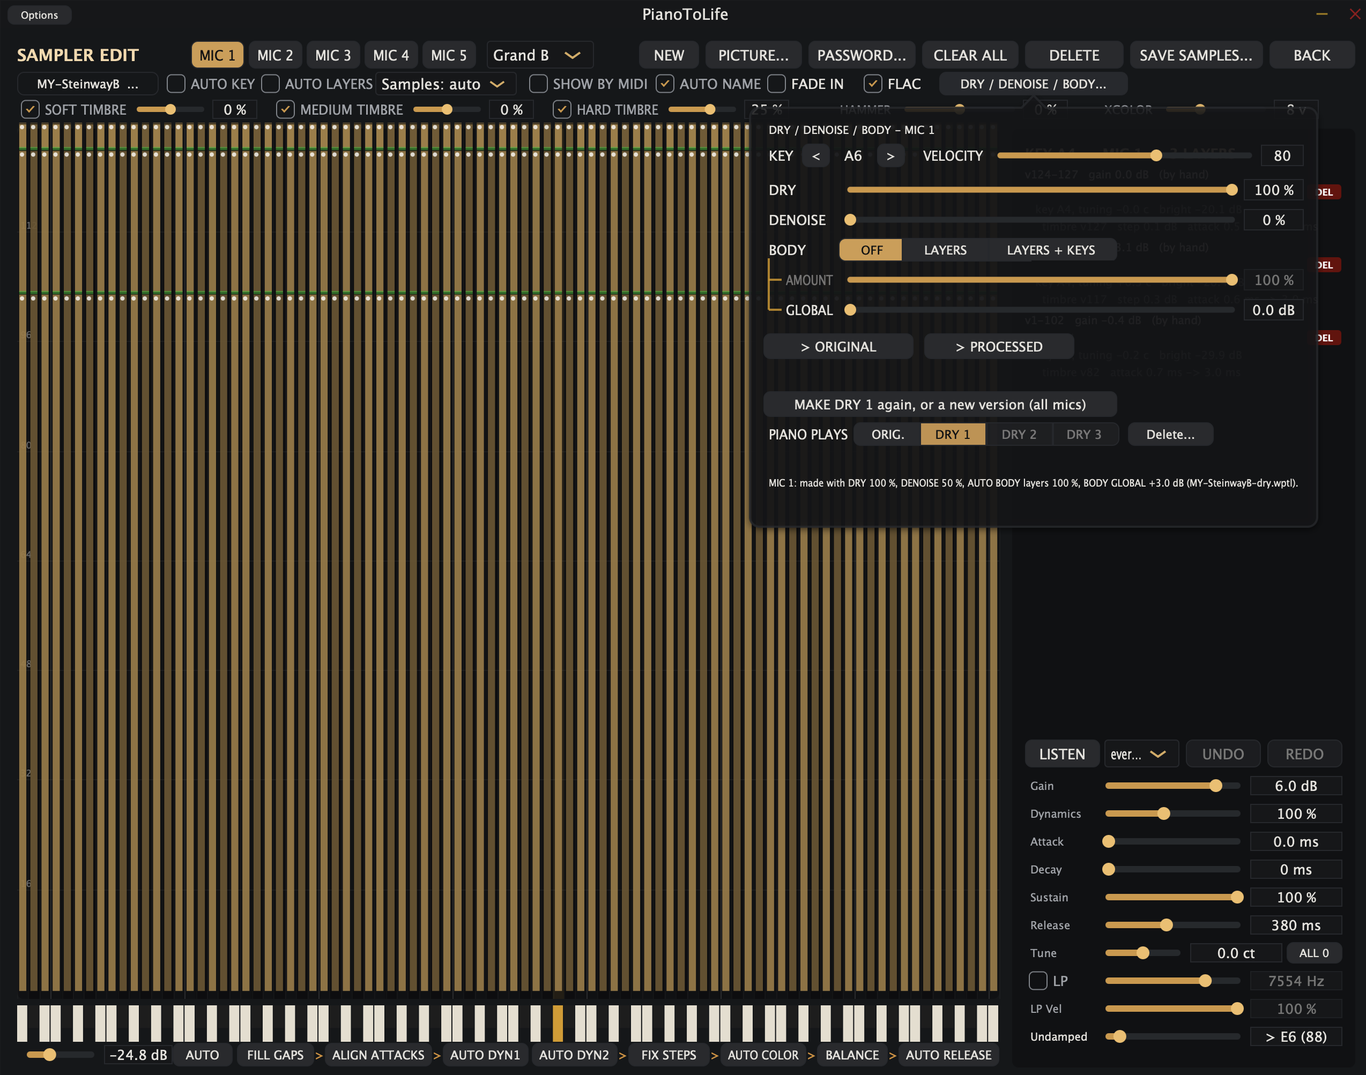
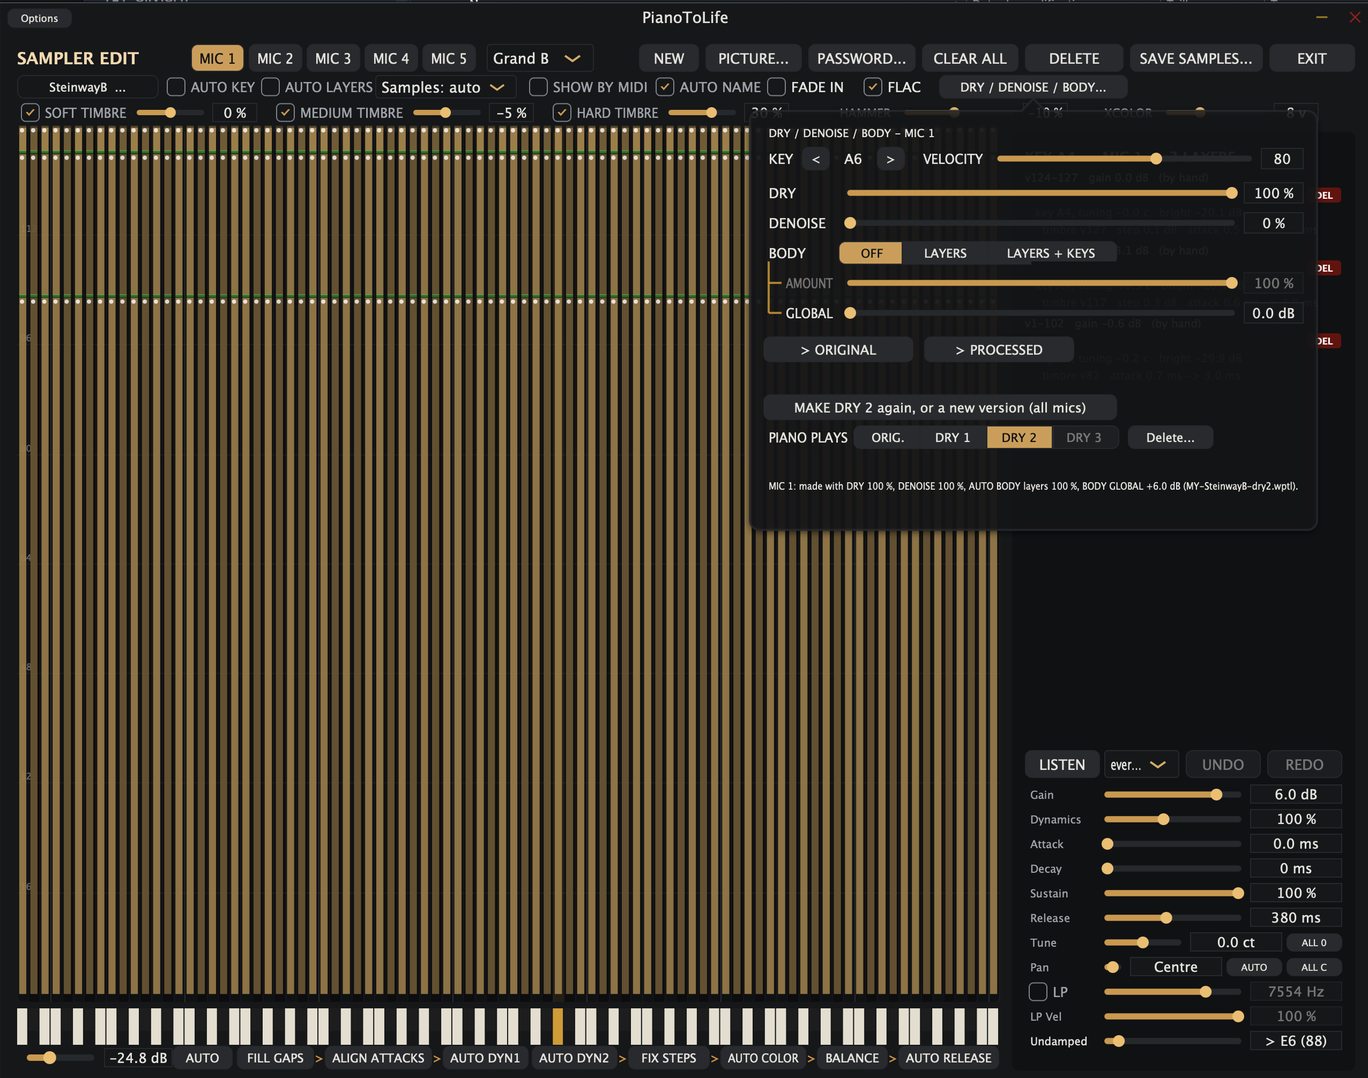
Add files via upload

diff --git a/MANUEL.md b/MANUEL.md
@@ -1,6 +1,6 @@
 # PianoToLife — Manuel d'utilisation
 
-*Version 10.9.8 · [English version](USER_MANUAL.md) · Mapping du sampler : [Manuel du sampler](MANUEL_SAMPLER.md)*
+*Version 10.9.9 · [English version](USER_MANUAL.md) · Mapping du sampler : [Manuel du sampler](MANUEL_SAMPLER.md)*
 
 PianoToLife fait **se comporter un piano virtuel comme un vrai** : les cordes qui résonnent par sympathie, la pédale
 de sustain et la demi-pédale, les étouffoirs, le relâchement, l'una corda, les bruits de la mécanique. Ce manuel
@@ -379,7 +379,7 @@ signaler un clavier qui se comporte à sa façon.
 | **Key Noise** (GRAND / UPRIGHT) | La mécanique en bois des touches : marteau qui retombe, touche qui arrive en butée, répétition |
 | **Pedal Noise** | Chocs de bois, feutres sur les cordes et cordes graves libérées, selon la course et la vitesse de la pédale |
 | **BODY** | La taille perçue du piano (à gauche de SOFT) : la fondamentale de chaque note renforcée ou atténuée, en HOST et en SAMPLER. Ce n'est pas un égaliseur : une petite cloche suit **chaque note qui sonne**, sur sa propre fondamentale (touches et pédale suivies). Pourquoi ça aide : sur un vrai piano, la fondamentale est rayonnée par toute la table d'harmonie et se forme avec la distance ; des micros proches captent surtout les partiels aigus et le marteau, et un piano enregistré sonne souvent brillant mais un peu creux. BODY lui rend cette présence, note par note ; et dans un mix le piano se détache sans empâter le grave, puisque seules les notes jouées sont renforcées (un égaliseur remonterait toute la bande). En mode SAMPLER, **AUTO BODY** (10.9.3, EDIT > DRY / DENOISE / BODY) va plus loin : il rend cohérentes les fondamentales des échantillons, couche par couche et touche par touche, écrites dans le -dry ([Manuel du sampler](MANUEL_SAMPLER.md)) |
-| **Recorded Room** (appelée Ambience avant la 10.9.3) | Juste sous SYMPATHETIC RESONANCE. **La salle enregistrée dans vos échantillons**, détectée par AUTO CAL et simulée pour tout ce que PianoToLife ajoute (résonance, relâchement, bruits), pour qu'il se fonde dans le piano — jamais autour du son de votre piano, qui la contient déjà. **Ce n'est pas une reverb** : pour placer tout l'instrument dans une salle, utilisez la **REVERB** (ALGO ou IR) ; un piano rendu sec (DRY) n'a plus de salle enregistrée (Small). **Room** : Small, Medium, Default, Hall ou **Auto** (10.8.0, voir plus bas). Le curseur va de −6 à +6 dB autour de Default (10.8.0) |
+| **Recorded Room** (appelée Ambience avant la 10.9.3) | Juste sous SYMPATHETIC RESONANCE. **La salle enregistrée dans vos échantillons**, détectée par AUTO CAL et simulée pour tout ce que PianoToLife ajoute (résonance, relâchement, bruits), pour qu'il se fonde dans le piano — jamais autour du son de votre piano, qui la contient déjà. **Ce n'est pas une reverb** : pour placer tout l'instrument dans une salle, utilisez la **REVERB** (ALGO ou IR) ; un piano rendu sec (DRY) n'a plus de salle enregistrée (AUTO CAL décoche alors Recorded Room, 10.9.9). **Room** : Small, Medium, Default, Hall ou **Auto** (10.8.0, voir plus bas). Le curseur va de −6 à +6 dB autour de Default (10.8.0) |
 | **Piano Comp**, **Reverb** | Placés après la résonance : tout l'instrument passe dedans |
 | **Reverb ALGO \| IR** (10.9.2) | À côté du DEFAULT de REVERB. **ALGO** : le Piano Hall de PianoToLife. **IR** : une reverb à convolution avec une **réponse impulsionnelle** de votre choix (une vraie salle, une plaque, une reverb de légende...). Cliquez sur **IR** : choisissez une IR, **LOAD IR...** (un WAV, AIFF ou FLAC téléchargé : il est copié dans le dossier `Impulse Responses` de votre dossier de sets, et choisi) ou **Open IR folder** (les dossiers qu'il contient, jusqu'à trois niveaux, deviennent des sous-menus). Les IR mono, stéréo et **true stereo** (4 canaux, ou une paire de fichiers « ... L » / « ... R » : choisissez l'un ou l'autre, les deux sont pris) sont lues, à toute fréquence, jusqu'à 10 s ; les fichiers B-format (ambisoniques) ne le sont pas. Le niveau est calé sur le Piano Hall. Choisir une IR met DECAY à la longueur propre de l'IR et DAMP à 0 (l'IR telle qu'enregistrée) ; ensuite **DECAY** raccourcit sa queue et **DAMP** éteint plus vite ses aigus ; MIX, PRE et LEVEL comme d'habitude. Aucune latence. Un preset garde le nom de l'IR : si le fichier manque, le Piano Hall joue et le bouton affiche **IR ?**. DEFAULT = ALGO. IR gratuites : [Voxengo](https://www.voxengo.com/impulses), [OpenAIR](https://www.openair.hosted.york.ac.uk/?page_id=2) (de vraies salles, prenez les fichiers stéréo), [Airwindows](https://airwindows.com/airwindows-impulses) ; les bibliothèques commerciales livrées en WAV marchent aussi |
 | **EQ1 / EQ2** (10.4.2) | Cliquez sur **EQ** sous REVERB : les EQ prennent la place de COMP / REVERB (le même bouton les ramène). **EQ1 BEFORE FX** agit avant COMP et REVERB, pour façonner le timbre du piano ; **EQ2 AFTER FX** agit tout à la fin, avant le Ceiling, pour corriger un casque. Pour chacun : **dessinez sur la courbe** (double-clic = un nouveau point, glisser = fréquence et gain, molette sur un point = sa largeur Q, clic droit = le supprimer), PREAMP, RESET = à plat, ou **LOAD** un preset — un `ParametricEQ.txt` d'AutoEq (mesures d'oratory1990, cible Harman) ou un fichier Equalizer APO ; chargez les presets de casque dans EQ2 (désactivez-le pour un bounce ou sur enceintes). Jusqu'à 20 points chacun. Gardé dans le preset et la session |
@@ -407,9 +407,11 @@ s'entend souvent tout de suite : la salle du piano se révèle, au lieu d'être 
 - **Le niveau trouvé s'affiche dans la Room** (par exemple *Auto +3 dB*). Le curseur Recorded Room reste un réglage fin
   autour : baissez-le de quelques points si vous trouvez la salle trop présente — souvent le cas avec des relâchements
   très propres.
-- **Un piano très sec** (micros proches ou fermés) : aucune salle n'est trouvée, la Room passe sur **Small**. De même
-  pour un piano échantillonné dont la salle a été retirée avec **DRY / DENOISE** (SAMPLER, 10.9.0) : choisissez la salle
-  voulue — voir le [Manuel du sampler](MANUEL_SAMPLER.md).
+- **Un piano très sec** (micros proches ou fermés) : aucune salle n'est trouvée, et depuis la 10.9.9 **Recorded Room est
+  décochée** — il n'y a pas de salle à reproduire (recochez-la pour une petite salle, Small, malgré tout). De même pour
+  un piano échantillonné dont la salle a été retirée avec **DRY / DENOISE** (SAMPLER) : placez tout le piano dans une
+  salle avec la **REVERB** (ALGO ou IR) — voir le [Manuel du sampler](MANUEL_SAMPLER.md). Quand une salle est trouvée,
+  Recorded Room est recochée.
 - ***The notes did not fully agree*** : les notes mesurées ne s'accordent pas toutes (vieil enregistrement, souffle...) :
   le résultat reste utilisable, vérifiez-le à l'oreille.
 - **Après une capture du Piano Model**, PianoToLife propose d'enchaîner les deux AUTO CAL : le niveau de résonance,
@@ -480,7 +482,7 @@ s'entend souvent tout de suite : la salle du piano se révèle, au lieu d'être 
     la touche = plus fort ; glissez sur les touches pour un glissando. Ces notes suivent le même chemin que votre
     clavier (HOST et SAMPLER, MIDI Monitor, ENGINE MIDI REC) ;
   - **l'accord joué**, en grand à gauche de BODY : les touches tenues et les notes que les pédales font sonner.
-    Seuls des noms d'accords s'affichent (C, Am7, Cmaj7/E… ; depuis la 10.9.7 aussi les accords de 13e : Cmaj13, C13, Cm13). Un accord tenu à la main gauche reste affiché pendant
+    Seuls des noms d'accords s'affichent (C, Am7, Cmaj7/E… ; depuis la 10.9.7 aussi les accords de 13e : Cmaj13, C13, Cm13 ; depuis la 10.9.9 Cmaj11 et Cm(maj11)). Un accord tenu à la main gauche reste affiché pendant
     une mélodie à la main droite, et se complète quand la mélodie l'enrichit.
 - **Taille d'affichage et petits écrans** (10.9.8) : le menu à gauche de la version propose **100 / 90 / 80 / 70 / 60 /
   50 %**. Au démarrage, si la fenêtre ne tient pas dans l'écran, PianoToLife prend la plus grande taille qui tient (pas

diff --git a/USER_MANUAL.md b/USER_MANUAL.md
@@ -1,6 +1,6 @@
 # PianoToLife — User Manual
 
-*Version 10.9.8 · [Version française](MANUEL.md) · Sampler mapping: [Sampler Manual](SAMPLER_MANUAL.md)*
+*Version 10.9.9 · [Version française](MANUEL.md) · Sampler mapping: [Sampler Manual](SAMPLER_MANUAL.md)*
 
 PianoToLife makes a virtual piano **behave like a real one**: the strings that ring in sympathy, the sustain pedal
 and half pedal, the dampers, the release, the una corda, the noises of the mechanism. This manual explains how it
@@ -356,7 +356,7 @@ goes to the **Host**. Differences are highlighted;
 | **Key Noise** (GRAND / UPRIGHT) | The wooden key action: hammer back on its rest, key landing, repetition |
 | **Pedal Noise** | Wooden thumps, felts on the strings and freed bass strings, following the pedal's travel and speed |
 | **BODY** | The perceived size of the piano (left of SOFT): each note's fundamental raised or lowered, in HOST and SAMPLER. Not an EQ: a small bell follows **each note that sounds**, on its own fundamental (keys and pedal followed). Why it helps: on a real piano the fundamental is radiated by the whole soundboard and builds up with distance; close microphones catch mostly the upper partials and the hammer, so a recorded piano often sounds bright but a little hollow. BODY gives back that presence, note by note; and in a mix the piano stands out without muddying the low end, since only the notes being played are raised (an EQ would raise everything in that band). In SAMPLER mode, **AUTO BODY** (10.9.3, EDIT > DRY / DENOISE / BODY) goes further: it makes the fundamentals of the samples coherent, layer by layer and key by key, written into the -dry ([Sampler Manual](SAMPLER_MANUAL.md)) |
-| **Recorded Room** (called Ambience before 10.9.3) | Right under SYMPATHETIC RESONANCE. **The room recorded in your samples**, detected by AUTO CAL and simulated for everything PianoToLife adds (resonance, release, noises), so that it blends with the piano — never around your piano's own sound, which already carries it. **It is not a reverb**: to put the whole instrument in a hall, use **REVERB** (ALGO or IR); a piano made dry (DRY) has no recorded room left (Small). **Room**: Small, Medium, Default, Hall or **Auto** (10.8.0, see below). The slider goes from −6 to +6 dB around Default (10.8.0) |
+| **Recorded Room** (called Ambience before 10.9.3) | Right under SYMPATHETIC RESONANCE. **The room recorded in your samples**, detected by AUTO CAL and simulated for everything PianoToLife adds (resonance, release, noises), so that it blends with the piano — never around your piano's own sound, which already carries it. **It is not a reverb**: to put the whole instrument in a hall, use **REVERB** (ALGO or IR); a piano made dry (DRY) has no recorded room left (AUTO CAL switches Recorded Room off, 10.9.9). **Room**: Small, Medium, Default, Hall or **Auto** (10.8.0, see below). The slider goes from −6 to +6 dB around Default (10.8.0) |
 | **Piano Comp**, **Reverb** | Placed after the resonance, so the whole instrument goes through them |
 | **Reverb ALGO \| IR** (10.9.2) | Beside REVERB's DEFAULT. **ALGO**: PianoToLife's Piano Hall. **IR**: a convolution reverb with an **impulse response** of your choice (a real hall, a plate, a vintage reverb unit...). Click **IR**: choose an IR, **LOAD IR...** (a WAV, AIFF or FLAC you downloaded: it is copied into the `Impulse Responses` folder of your sample sets folder, and chosen), or **Open IR folder** (folders inside it, up to three levels, become sub-menus). Mono, stereo and **true stereo** IRs (4 channels, or a pair of files "... L" / "... R": choose either, both are taken) are read, at any sample rate, up to 10 s; B-format (ambisonic) files are not. The level is matched to the Piano Hall. Choosing an IR sets DECAY to the IR's own length and DAMP to 0 (the IR as recorded); then **DECAY** shortens its tail and **DAMP** makes its treble die sooner; MIX, PRE and LEVEL work as usual. No latency. A preset keeps the IR's name: if the file is missing, the Piano Hall plays and the button reads **IR ?**. DEFAULT = ALGO. Free IRs: [Voxengo](https://www.voxengo.com/impulses), [OpenAIR](https://www.openair.hosted.york.ac.uk/?page_id=2) (real halls, use the stereo files), [Airwindows](https://airwindows.com/airwindows-impulses); commercial libraries delivered in WAV work too |
 | **EQ1 / EQ2** (10.4.2) | Click **EQ** under REVERB: the EQs take the place of COMP / REVERB (the same button brings them back). **EQ1 BEFORE FX** works before COMP and REVERB, to shape the tone of the piano; **EQ2 AFTER FX** works at the very end, before the Ceiling, to correct headphones. Each: **draw it on the curve** (double-click = a new point, drag = frequency and gain, mouse wheel on a point = its width Q, right-click = remove), PREAMP, RESET = flat, or **LOAD** a preset — a `ParametricEQ.txt` from AutoEq (oratory1990 measurements, Harman target) or an Equalizer APO file; load headphone presets in EQ2 (switch it off for a bounce or on loudspeakers). Up to 20 points each. Kept in the preset and the session |
@@ -382,9 +382,10 @@ once: the piano's room comes out, instead of being masked.
   the standalone, about 25 s in a DAW; don't play meanwhile. The button stays lit once the piano was analysed.
 - **The level found is shown in the Room** (e.g. *Auto +3 dB*). The Recorded Room slider still sets more or less around
   it: lower it a little if you find the room too present — often the case with very clean releases.
-- **A very dry piano** (close or closed microphones): no room is found, the Room is set to **Small**. The same for a
-  sampled piano whose room was taken out with **DRY / DENOISE** (SAMPLER, 10.9.0): choose the room you want — see the
-  [Sampler Manual](SAMPLER_MANUAL.md).
+- **A very dry piano** (close or closed microphones): no room is found, and since 10.9.9 **Recorded Room is switched
+  off** — there is no room to match (tick it again for a small room, Small, anyway). The same for a sampled piano whose
+  room was taken out with **DRY / DENOISE** (SAMPLER): put the whole piano in a room with the **REVERB** (ALGO or IR) —
+  see the [Sampler Manual](SAMPLER_MANUAL.md). When a room is found, Recorded Room is ticked again.
 - ***The notes did not fully agree***: the measured notes differ (an old recording, tape hiss...): the result is
   usable, check it by ear.
 - **After a Piano Model capture**, PianoToLife offers both AUTO CALs in a row: the resonance level, then the room.
@@ -450,7 +451,7 @@ once: the piano's room comes out, instead of being masked.
     the keys for a glissando. These notes go through the same path as your keyboard (HOST and SAMPLER, MIDI Monitor,
     ENGINE MIDI REC);
   - **the chord you play**, in large letters left of BODY: the keys held and the notes the pedals keep ringing.
-    Only chord names are shown (C, Am7, Cmaj7/E…; since 10.9.7 the 13th chords too: Cmaj13, C13, Cm13). A chord held in the left hand stays shown while the right hand
+    Only chord names are shown (C, Am7, Cmaj7/E…; since 10.9.7 the 13th chords too: Cmaj13, C13, Cm13; since 10.9.9 Cmaj11 and Cm(maj11)). A chord held in the left hand stays shown while the right hand
     plays a melody over it, and is completed when the melody adds to it.
 - **View size and small screens** (10.9.8): the menu left of the version offers **100 / 90 / 80 / 70 / 60 / 50 %**. At
   the start, if the window does not fit the screen, PianoToLife takes the largest size that fits (not remembered: on a

diff --git a/MANUEL_SAMPLER.md b/MANUEL_SAMPLER.md
@@ -1,6 +1,6 @@
 # Sampler de PianoToLife — Manuel d'utilisation
 
-*Version 10.9.8 · [English version](SAMPLER_MANUAL.md) · Manuel général : [Manuel d'utilisation](MANUEL.md)*
+*Version 10.9.9 · [English version](SAMPLER_MANUAL.md) · Manuel général : [Manuel d'utilisation](MANUEL.md)*
 
 Le sampler intégré de PianoToLife joue **vos propres échantillons de piano**, avec tous les moteurs de PianoToLife
 par-dessus. Ce manuel explique comment transformer un dossier d'échantillons en piano jouable, ce que fait chaque
@@ -315,8 +315,8 @@ sélectionné** en haut, et MAKE traite tous les micros :
    **Delete...** supprime une version qui ne joue pas (ses échantillons et ses réglages ; les originaux et les autres
    versions ne sont pas touchés). Changer ne remesure pas AUTO BODY.
 4. **Refaites ensuite une capture du Piano Model (.srpiano), puis relancez les AUTO CAL de Resonance et de Recorded Room** :
-   ils avaient été mesurés sur le son avec sa salle. L'AUTO CAL de la Recorded Room ne trouve alors plus de salle et règle la
-   Room sur **Small** : placez le piano dans la salle voulue avec la REVERB (ALGO ou IR).
+   ils avaient été mesurés sur le son avec sa salle. L'AUTO CAL de la Recorded Room ne trouve alors plus de salle et **décoche
+   Recorded Room** (10.9.9) : placez le piano dans la salle voulue avec la REVERB (ALGO ou IR).
 
 **Formats.** Les échantillons d'origine restent exactement tels qu'enregistrés. Les échantillons -dry sont toujours en
 **FLAC 24 bits** (sans perte), à la fréquence de l'original, même quand les originaux sont en 16 bits : une fois la
@@ -407,6 +407,8 @@ les couches des touches choisies.
 | **Decay** / **Sustain** | Temps pour atteindre le niveau Sustain ; 0 = l'extinction naturelle de l'échantillon |
 | **Release** | 0 = **Auto** (le modèle d'étouffoirs de PianoToLife ; sans étouffoir au-dessus de Undamped Keys Above) ; un temps en ms ; tout à droite = **Infinite** (sans étouffoir : touches aiguës non étouffées) |
 | **Tune** | Accord fin en cents. **ALL 0** (10.9.4, au bout de la ligne) : le Tune de toutes les touches revient à 0, la hauteur des samples tels qu'enregistrés (une étape UNDO) |
+| **Pan** (10.9.9) | La place de la touche à gauche / à droite, de **L 100 %** à **R 100 %** : un côté est baissé, rien n'est mélangé, l'image stéréo de la note est donc gardée. Cliquez sur la valeur pour la taper (« L 12 », « R 8 », « C »). **ALL C** : toutes les touches au centre (une étape UNDO). Enregistré dans l'instrument, chaque version a le sien. À ne pas confondre avec **BALANCE** (le volume entre les touches) |
+| **Pan AUTO** (10.9.9, facultatif) | Pour les prises dont les touches voisines ne sont pas à la même place (micros espacés, peu d'harmoniques dans l'aigu). Il mesure la gauche / droite de chaque touche et trouve la ligne propre du piano du grave à l'aigu — **sa pente et ses extrémités sont gardées, aucune position de micros n'est devinée**. Seules les touches nettement hors de cette ligne reçoivent un Pan qui les y ramène (6 dB au plus) ; les autres reviennent au centre. La fenêtre de résultat donne la ligne trouvée et a un **AMOUNT** (70 % par défaut, entendu aussitôt en jouant). **Ne convient pas à toutes les prises** : écoutez avant et après, Cmd/Ctrl+Z si les places sonnaient plus naturelles telles qu'enregistrées. Rien ne change quand le piano ne montre pas de ligne nette |
 | **LP** + fréquence + **LP Vel** | Passe-bas optionnel par voix ; LP Vel assombrit les notes douces (jusqu'à 3 octaves plus bas à 100 %) |
 | **Undamped** | Undamped Keys Above, pour tout le piano (le réglage de la fenêtre principale, synchronisé) : les touches au-dessus n'ont pas d'étouffoir |
 
@@ -424,7 +426,7 @@ les couches des touches choisies.
 | **PASSWORD...** | Protège EDIT par un mot de passe (jouer le set ne le demande jamais). Vide = pas de mot de passe |
 | **CLEAR ALL** (10.4.3) | Vide tout le set (toutes les touches, tous les micros), après un avertissement qui donne le nombre d'échantillons. UNDO le remet ; les fichiers ne sont pas touchés |
 | **DELETE** | Supprime les zones sélectionnées (voir le tableau plus haut) |
-| **BACK** | Revient à la fenêtre principale |
+| **EXIT** (10.9.9, anciennement BACK) | Revient à la fenêtre principale. Avec des modifications non enregistrées (**\*** dans la boîte PRESET), il demande d'abord : **Save and exit** (enregistrer et sortir), **Exit without saving** (rien n'est perdu : les réglages restent jusqu'à ce que vous chargiez autre chose) ou Cancel |
 
 Un set enregistré sur Mac s'ouvre sur Windows et inversement. Enregistrer un preset en mode SAMPLER crée un **preset
 `[SAMP]`** qui contient le mapping et le modèle de résonance ; seuls les échantillons (`.wptl`) restent à part.

diff --git a/SAMPLER_MANUAL.md b/SAMPLER_MANUAL.md
@@ -1,6 +1,6 @@
 # PianoToLife Sampler — User Manual
 
-*Version 10.9.8 · [Version française](MANUEL_SAMPLER.md) · General manual: [User Manual](USER_MANUAL.md)*
+*Version 10.9.9 · [Version française](MANUEL_SAMPLER.md) · General manual: [User Manual](USER_MANUAL.md)*
 
 PianoToLife's built-in sampler plays **your own piano samples** with all of PianoToLife's engines on top of
 them. This manual explains how to turn a folder of samples into a playable piano, what every button does, and
@@ -292,8 +292,8 @@ selected** at the top, and MAKE processes every microphone:
    not playing (its samples and its settings; the originals and the other versions are untouched). Switching does
    not measure AUTO BODY again.
 4. **Then make a new Piano Model capture (.srpiano), and run AUTO CAL of Resonance and of Recorded Room again**: they were
-   measured on the sound with its room. The Recorded Room AUTO CAL then finds no room and sets Room **Small**: put the
-   piano in the room you want with the REVERB (ALGO or IR).
+   measured on the sound with its room. The Recorded Room AUTO CAL then finds no room and switches **Recorded Room off**
+   (10.9.9): put the piano in the room you want with the REVERB (ALGO or IR).
 
 **Formats.** The original samples stay exactly as recorded. The -dry samples are always **24-bit FLAC** (lossless), at
 the original's sample rate, even when the originals are 16-bit: once the room and the hiss are taken out, the tails of
@@ -378,6 +378,8 @@ keys.
 | **Decay** / **Sustain** | Time to reach the Sustain level; 0 = the natural decay of the sample |
 | **Release** | 0 = **Auto** (PianoToLife's damper model; no damper above Undamped Keys Above); a time in ms; all the way right = **Infinite** (no damper: undamped top keys) |
 | **Tune** | Fine tune in cents. **ALL 0** (10.9.4, at the end of the row): every key's Tune back to 0, the pitch of the samples as recorded (one UNDO step) |
+| **Pan** (10.9.9) | The key's place left / right, **L 100 %** to **R 100 %**: one side is lowered, nothing is mixed, so the stereo image of the note is kept. Click the value to type it ("L 12", "R 8", "C"). **ALL C**: every key back to the centre (one UNDO step). Saved with the instrument, each version its own. Not to be confused with **BALANCE** (the volume between the keys) |
+| **Pan AUTO** (10.9.9, optional) | For recordings whose neighbouring keys do not sit at the same place (spaced microphones, few partials in the treble). It measures the left / right of every key and finds the piano's own line from the bass to the treble — **its slope and its ends are kept, no position of the microphones is guessed**. Only the keys clearly off that line get a Pan that brings them back onto it (at most 6 dB); the others go to the centre. The result window gives the line found and has an **AMOUNT** (70 % by default, heard at once while you play). **Not for every recording**: listen before and after, Cmd/Ctrl+Z if the places sounded more natural as recorded. Nothing changes when the piano shows no clear line |
 | **LP** + cutoff + **LP Vel** | Optional low-pass per voice; LP Vel makes soft notes darker (up to 3 octaves lower at 100 %) |
 | **Undamped** | Undamped Keys Above, for the whole piano (the main window's setting, in sync): the keys above it have no damper |
 
@@ -395,7 +397,7 @@ keys.
 | **PASSWORD...** | Protects EDIT with a password (playing the set never asks for it). Empty = no password |
 | **CLEAR ALL** (10.4.3) | Empties the whole set (every key, every microphone), after a warning that gives the number of samples. UNDO brings it back; the files are not touched |
 | **DELETE** | Removes the selected zones (see the table above) |
-| **BACK** | Returns to the main window |
+| **EXIT** (10.9.9, was BACK) | Returns to the main window. With changes not saved (**\*** in the preset box) it asks first: **Save and exit**, **Exit without saving** (nothing is lost: the settings stay until you load something else) or Cancel |
 
 A set saved on Mac opens on Windows and back. Saving a preset in SAMPLER mode creates a **`[SAMP]` preset** that
 carries the mapping and the resonance model; only the samples (`.wptl`) stay apart.
